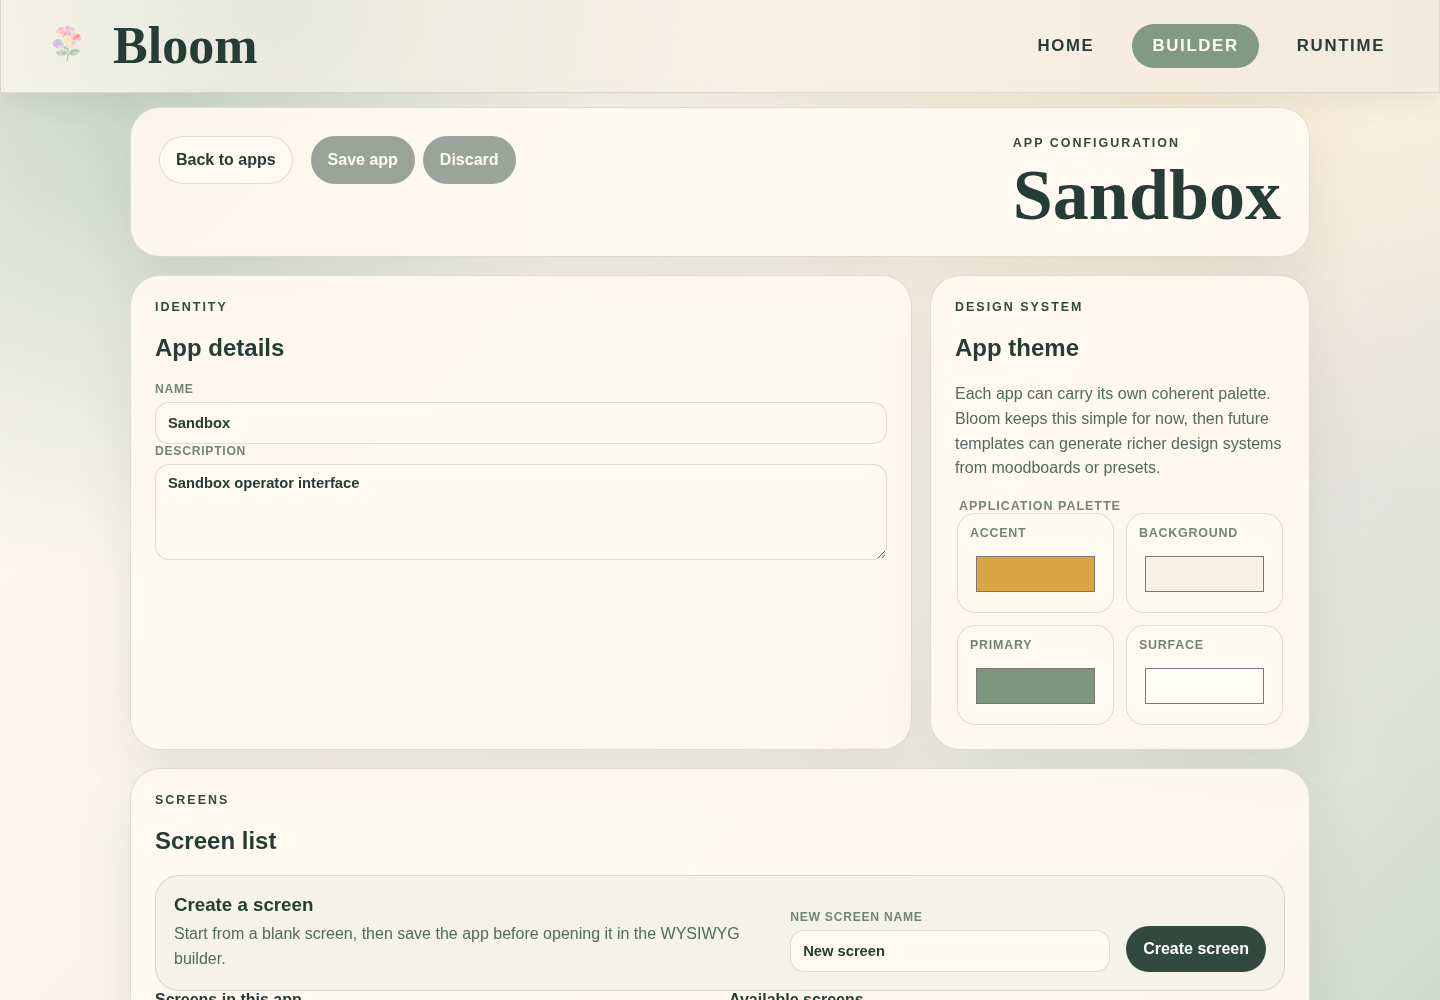
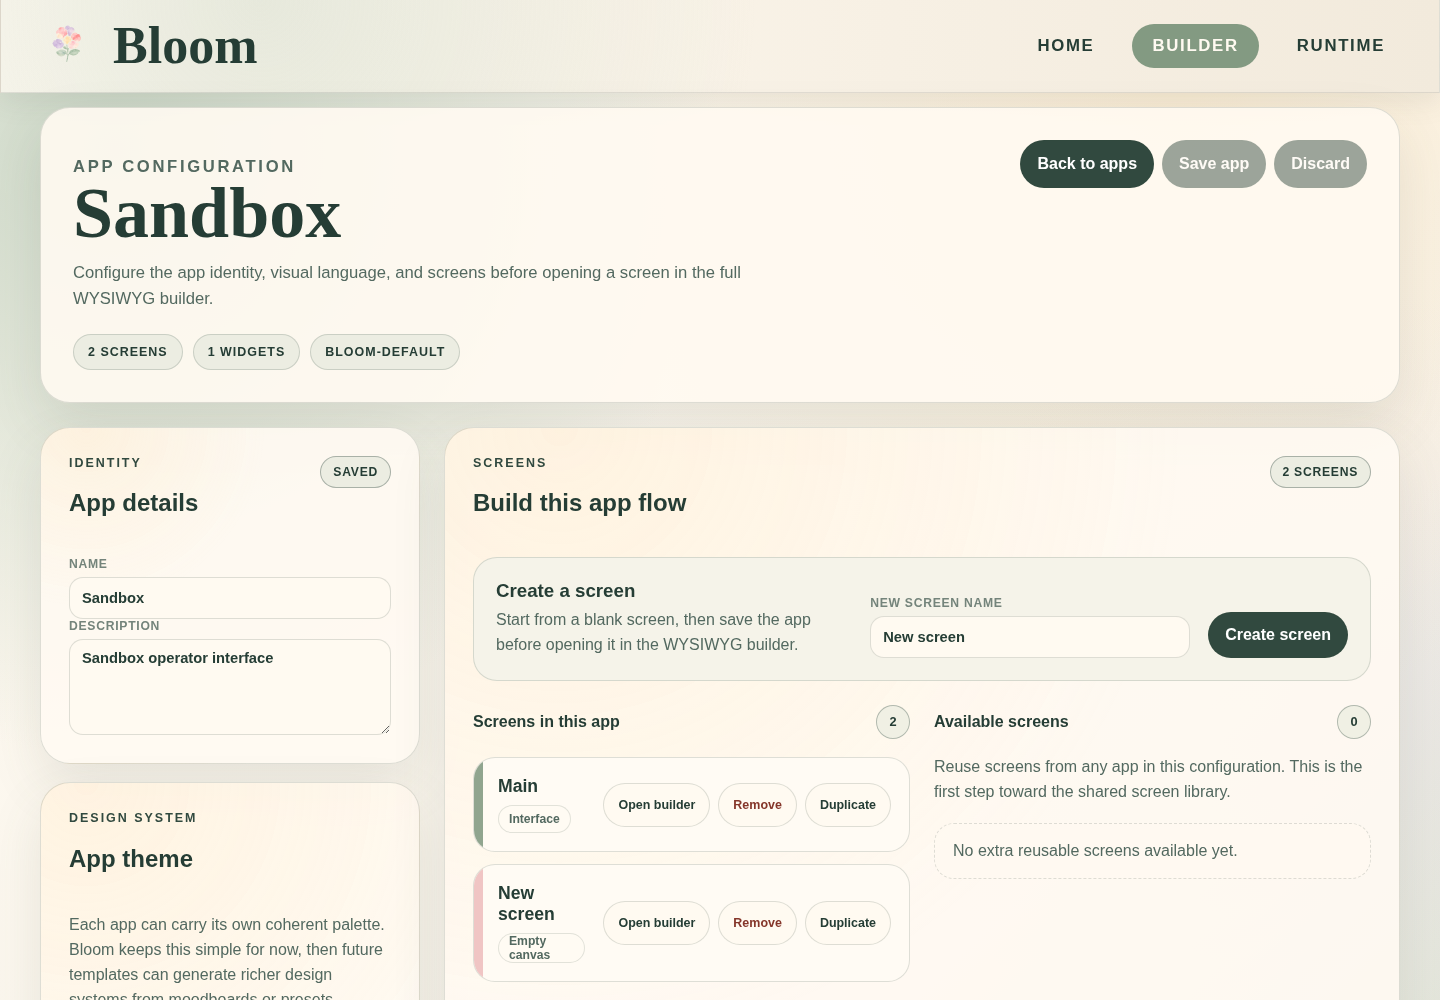
feat(builder): open app runtime from builder home

diff --git a/frontend/apps/bloom-dashboard/src/builder/BuilderHome.tsx b/frontend/apps/bloom-dashboard/src/builder/BuilderHome.tsx
@@ -100,6 +100,23 @@ export function BuilderHome({
                         Open app
                       </button>
                       <button
+                        aria-label={`Open ${application.name} runtime`}
+                        disabled={!firstScreen || isActingOnThisApp}
+                        onClick={() => {
+                          if (!firstScreen) {
+                            return;
+                          }
+                          onPreviewScreenRuntime({
+                            appId: application.id,
+                            configId: configuration.id,
+                            screenId: firstScreen.id,
+                          });
+                        }}
+                        type="button"
+                      >
+                        Open runtime
+                      </button>
+                      <button
                         aria-label={`Duplicate ${application.name} app`}
                         disabled={isActingOnThisApp}
                         onClick={async () => {

diff --git a/frontend/apps/bloom-dashboard/src/App.test.tsx b/frontend/apps/bloom-dashboard/src/App.test.tsx
@@ -69,6 +69,17 @@ describe("App", () => {
     expect(screen.queryByRole("region", { name: "Bloom builder workspace" })).not.toBeInTheDocument();
   });
 
+  it("opens an app runtime directly from the builder app list", async () => {
+    render(<App configurationClient={createConfigurationClient()} />);
+
+    fireEvent.click(screen.getByRole("button", { name: "Builder: Compose screens" }));
+    fireEvent.click(await screen.findByRole("button", { name: "Open Sandbox runtime" }));
+
+    expect(await screen.findByRole("region", { name: "Runtime application" })).toBeVisible();
+    expect(screen.getByRole("heading", { level: 2, name: "Sandbox" })).toBeVisible();
+    expect(screen.queryByRole("heading", { level: 1, name: "Sandbox" })).not.toBeInTheDocument();
+  });
+
   it("opens app configuration before entering the full screen builder", async () => {
     render(<App configurationClient={createConfigurationClient()} />);
 